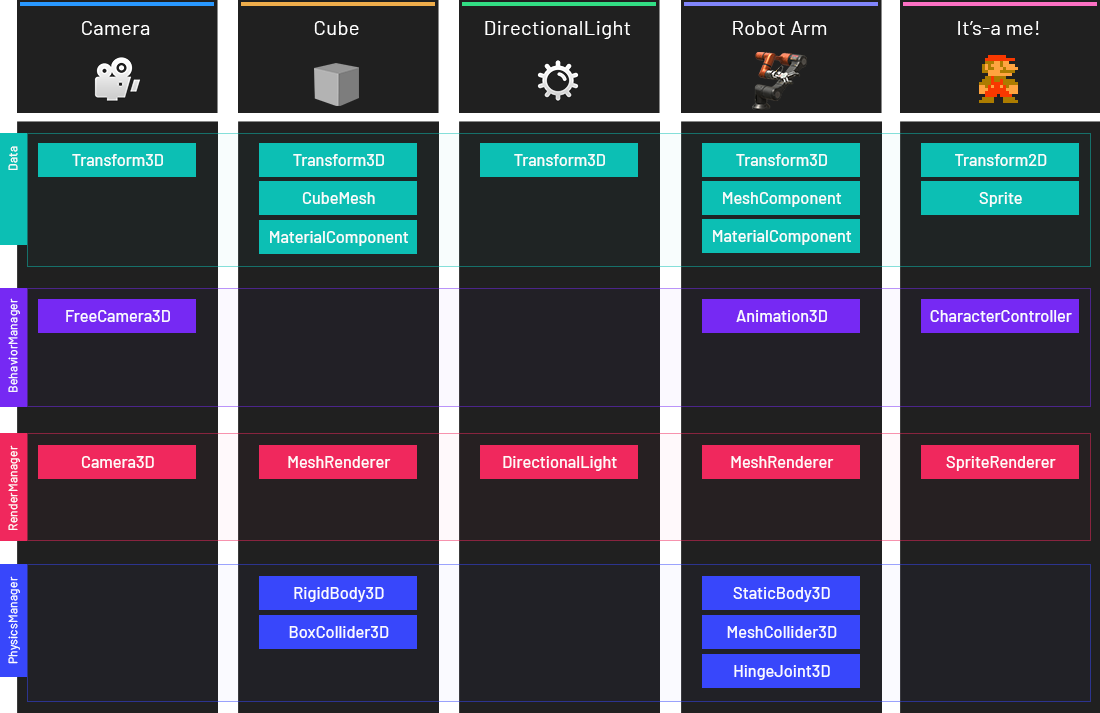
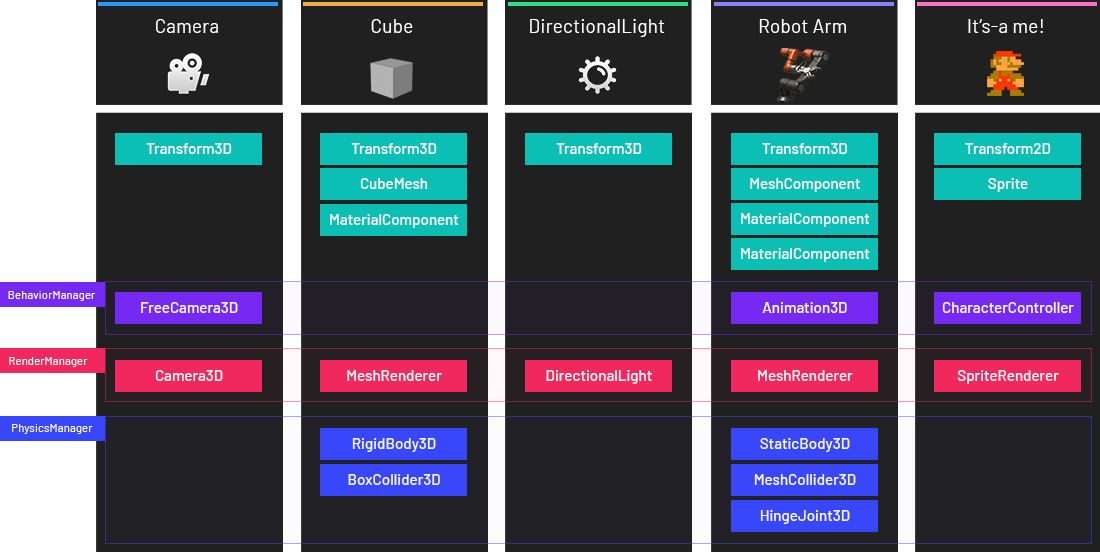
Implements the Entity section, and modify some items in the Comp-Arch section

diff --git a/manual/basics/component_arch/index.md b/manual/basics/component_arch/index.md
@@ -3,24 +3,24 @@
 ![Component Based Architecture](images/component_based_arch.jpg)
 
 
-Evergine is based on entity-oriented programming. An entity is built of components, where each component does just an specific piece of work, and are reusable on other entities.
+Evergine is based on entity-oriented programming. An [**Entity**](entities/index.md) is built of Components, where each component does just an specific piece of work, and are reusable on other entities.
 
 ## Overview
 When you are making applications in Evergine, you need to create objects to represent the entities in your scene, like a car, a player, a sunlight, and so on.
 
 ### Traditional deep class hierarchies
-When you first get started ,you might think the most logical thing is to create a base class called ``AppObject`` or similar, that contains the common code. Then you can create subclasses like ``Vehicle`` with all common functionality between all vehicles, and maybe subclases for specific types (``Car``, ``Motorbike``, ``Train``...).
+When you first get started ,you might think the most logical thing is to create a base class called `AppObject` or similar, that contains the common code. Then you can create subclasses like `Vehicle` with all common functionality between all vehicles, and maybe subclases for specific types (`Car`, `Motorbike`, `Train`...).
 
 For simple scenarios, this works quite well and is quite easy to program. However, has your application get larger and more complex, this architecture begins to cause some problems in practice:
 * Root classes tend to be heavier and is difficult to split the functionality in separate subsystems.
-* Class inheritance may introduce weird scenarios. For instance, if we have created a ``GroundVehicle`` and ``WaterVehicle`` base classes, Which class a ``AmphibianVehicle`` should be derived from? If it is derived from GroundVehicle, all water functionality would be missing, and the same if it is derived from WaterVehicle.
+* Class inheritance may introduce weird scenarios. For instance, if we have created a `GroundVehicle` and `WaterVehicle` base classes, Which class a `AmphibianVehicle` should be derived from? If it is derived from GroundVehicle, all water functionality would be missing, and the same if it is derived from WaterVehicle.
 
 ![Class Inheritance Issue](images/class_inheritance_issue.png)
 
 ### Entities as an aggregation of Components
 
 To solve this issues, we have chosen the **aggregation of components** approach.
-In ths approach, the functionality is separated into individual componets that are mostly independent of one another. The old object hierarchy is replaced by an object (``Entity``) with a collection of independent components (derived from ``Component``).
+In ths approach, the functionality is separated into individual componets that are mostly independent of one another. The old object hierarchy is replaced by an object (`Entity`) with a collection of independent components (derived from `Component`).
 
 Each object now only has the functionality that it needs. Any distinct new functionality is implemented by adding a new component.
 
@@ -33,7 +33,7 @@ To give an Entity the properties it needs to become a Light, a Model, or a Camer
 
 ### SceneManagers and Components
 
-In Evergine, a **Scene** has several subsystems (called **SceneManagers**). Every SceneManager control different aspects of the scene (A few examples: ``RenderManager`` to render and draw the scene, ``BehaviorManager`` to udpate all Behaviors, ``PhysicManager3D`` to perform Physics simulations, and so on)
+In Evergine, a **Scene** has several subsystems (called **SceneManagers**). Every SceneManager control different aspects of the scene (A few examples: `RenderManager` to render and draw the scene, `BehaviorManager` to udpate all Behaviors, `PhysicManager3D` to perform Physics simulations, and so on)
 
 With the Component architecture, every component is responsible to registers itself into the associated SceneManager, allowing in these SceneManagers to have the scope of Components which they are interested in and ignore the rest of them.
 
@@ -42,14 +42,16 @@ With the Component architecture, every component is responsible to registers its
 
 ### Summary Diagram
 
-A **Scene** is composed for several **Entities**. Each one has a collection of Components that give it the required functionality or data. Every component may be registered into the different **SceneManagets** of the Scene.
+A **Scene** is composed for several [**Entities**](entities/index.md). Each one has a collection of Components that give it the required functionality or data. Every component may be registered into the different **SceneManagets** of the Scene.
+
+The following diagram gives an overview concerning this
 
 ![Component Based Architecture](images/component_arch.png)
 
 
 
 ## In this section
-* [Entities](entities.md)
+* [Entities](entities/index.md)
 * [Components](components.md)
 * [Behaviours](behaviours.md)
 * [Drawables](drawables.md)

diff --git a/manual/basics/component_arch/entities/entity_hierarchy.md b/manual/basics/component_arch/entities/entity_hierarchy.md
@@ -1,0 +1,84 @@
+# Entity Hierarchy
+
+You can establish an Entity as a child of another Entity. Using this relationships, it is possible to define an entity tree, where root entities has several children, and those children could have another children too.
+
+## Hierarchy transformations
+
+If an Entity has a ``Transform3D`` component (or ``Transform2D`` for 2D entities), the Child Entity will move, rotate and scale in the same way as its Parent does. You can think of parent / child hierarchy as being like the relationship between your arms and your body,  whenever your body moves, your arms also move along with it. Child objects can also have children. Your hands can be considered as children of your arms, and your fingers are hands children.
+
+![Entity Hierarchy](images/entity_hierarchy.png)
+
+## Hierarchy Properties and Methods
+
+The Entity has the following properties and methods to maintain and inspect the hierarchy:
+
+| Property | Type | Description |
+| --- | --- | --- |
+| **Parent** | `Entity` | Point to the inmediate ascendant of this entity. If the entity has no parents this property is `null` |
+| **ChildEntities** | `IEnumerable<Entity>` | A collection of the inmediate descendants.  |
+
+| Method | Description |
+| --- | --- |
+| `Entity.AddChild(Entity)` | Add a child entity to the current entity. |
+| `Entity.RemoveChild(...)` | Remove a child entity from the current entity. You can specify the entity to remove by giving the following options: <ul><li>The **Entity** instance.</li><li>The child **Name**</li><li>The child **ID**</li></ul>|
+
+## Entity Paths
+
+![Entity Path](images/entity_path.png)
+
+Like in a normal file system, Evergine implements a simple **Entity Path** system to allow identification of entities in the Scene entity tree.
+
+An Entity Path cound be accessed by the `EntityPath` property, and is represented by the sequence of ascendant entity names (including the current entity) separated by the `.` symbol. For example, in the hierarchy described above, the EntityPath of the `Tire2` entity is `Car.Wheel2.Tire2`
+
+### Path representation
+These are the path representation elements:
+
+* Entity separator: `.`
+* Current entity: `[this]`
+* Parent entity: `[parent]`
+
+#### Sample uses
+
+Using the example described above...
+
+* The *relative* path from **Wheel1** to **Tire1** would be: `[parent].Wheel2.Tire2`
+* The *relative* path from **Car** to **Tire1** would be: 
+  * `.Wheel1.Tire1`
+  * Or: `[this].Wheel1.Tire1`, Notice that `[this]` is optional.
+* The *absolute* path of **Wheel1** entity would be exactly the one we've been using until now: `Car.Wheel1`
+* Whe you want to get an entity that doesn't belong to the source's root entity, we just specify the target's absolute path. For example, the relative path from **Tire1** to **Ground** is just: ``Ground``, instead of `[parent].[parent].[parent].Ground` (Incorrect path)
+* To figure out if a specific path is absolute or relative, we just have to read the first element. If it's one of the special elements (`.`, `[this]` pr `[parent]`):
+
+| Path | Type |
+|--- | ---|
+| `[parent].Wheel1 Relative` | Relative |
+| `.Tire2` | Relative |
+| `[this]` | Relative |
+| `Car.Wheel2` | Absolute |
+| `Road` | Absolute |
+
+## Additional methods
+
+In order to make easier the search of entities in code, we’ve added the `Find()` method in the Entity class.
+
+```csharp
+public Entity Find (string path)
+```
+
+This method finds an entity with the desired **relative** path respect the caller entity. If the relative path is not correct, it returns `null`.
+
+We have also added an additional parameter in the **Find** method in **EntityManager** class, allowing to set the source entity and allowing to directly search there.
+
+```csharp
+public Entity Find (string path, Entity sourceEntity = null)
+```
+
+For example (following with the above-mentioned hierarchy), if we want to search the tire1 entity from car we can call one of the next:
+
+```csharp
+Entity tire;
+
+// We can find the entity either of these ways
+tire = car.Find(".Wheel1.Tire1");
+tire = entityManager.Find(".Wheel.Tire1", car);
+```

diff --git a/manual/basics/component_arch/entities/entity_manager.md b/manual/basics/component_arch/entities/entity_manager.md
@@ -1,0 +1,85 @@
+# EntityManager
+
+**EntityManager** is the subsystem in the Scene responsible to manage Entities. It is responsible to maintain the Entity list, and the lifecycle of each one.
+
+Useful ways to interact with EntityManager:
+
+## Add and Remove Entities
+
+The most common way to interact with EntityManager is by adding and removing entities:
+
+```csharp
+EntityManager entityManager = scene.Managers.EntityManager;
+
+// Add an Entity to the Scene..
+entityManager.Add(entity);
+
+// Remove an Entity from the Scene...
+entityManager.Remove(entity);
+```
+
+## Find Entities
+
+You can  find Entities in several ways:
+
+### Find Entity by EntityPath
+
+This is the most common way to find an Entity in the Scene, by using its **EntityPath**:
+
+```csharp
+// Find an entity by its Entity Path...
+var entity = entityManager.Find("Parent.Entity1.ChildEntity");
+```
+
+### Find Entity by ID
+
+You can find an Entity if you specify its ID (Guid)
+
+```csharp
+// Find an entity by its ID...
+Guid id = entity.Id;
+var entity = entityManager.Find(id);
+```
+
+### Find all Entities by Tag
+
+As we mentined before, you can set the tag Entities by setting the `Tag` property. So, you can obtain an Entity collection that match a given Tag:
+
+```csharp
+// Find all entities with a given Tag...
+IEnumerable<Entity> entityCollection = entityManager.FindAllByTag("Tag");
+```
+
+## Entity Tag Collection
+
+A useful feature of EntityManager is the possibility to obtain a live collection of entities that match a specified Tag.
+
+This collection is represented by the `EntityTagCollection` class. The main advantage compared to invoke `FindAllByTag()` method is that in this case the collection is dynamic during the application lifetime. So, you can subscribe to events to get notified when the collection changes:
+
+Here it is a glimpse of how to use it:
+
+```csharp
+// Gets the tag collection...
+var tagCollection = entityManager.GetEntityTagCollection("Tag");
+
+// Iterates over all matching entities...
+foreach (var entity in tagCollection.Entities)
+{
+    System.Console.WriteLine(entity.EntityPath);
+}
+
+// TagCollection Events:
+
+// OnEntityAdded: Event triggered when a new Entity with the given Tag is added to the Scene...
+tagCollection.OnEntityAdded += (sender, entity) => 
+{ 
+    System.Console.WriteLine($"New entity: {entity.EntityPath}"); 
+};
+
+// OnEntityRemoved: Event triggered when an Entity is no longer belong to this collection, 
+// becuase the Entity is removed or its Tag has changed...
+tagCollection.OnEntityRemoved += (sender, entity) =>
+{
+    System.Console.WriteLine($"Entity removed: {entity.EntityPath}");
+};
+```

diff --git a/manual/basics/component_arch/entities/using_entities.md b/manual/basics/component_arch/entities/using_entities.md
@@ -1,0 +1,55 @@
+# Using Entities
+Manipulate Entities is quite straightforward in Evergine.
+
+## From Evergine Studio
+
+### Add Entity in Evergine Studio
+
+In the **Entities Hiearchy** area in an oppened SceneEditor,  just click the ![Add Button](../../../graphics/images/plusIcon.jpg) button. A popup menu will appear:
+
+![Create Entity](images/create_entity.png)
+
+This menu gives you several options to create entities. If you just want to create an Entity with only the Transform3D component, click the `Empty entity`  button.
+
+If an Entity is selected, you can change its properties (Name, Tag, enable) in the Entity Details panel:
+
+![Entity details](images/entity_details.png)
+
+## From Code
+
+### Create a new Entity from code
+Creating and Entity from code is a not a complex task:
+
+```csharp
+Entity entity = new Entity("EntityName");
+
+// Set the Entity Tag...
+entity.Tag = "Tag"
+
+// Add some components...
+entity.AddComponent(new Transform3D());
+    .AddComponent(new TeapotMesh())
+    .AddComponent(new MaterialComponent())
+    .AddComponent(new MeshRenderer())
+
+// Add to the EntityManager
+this.Managers.EntityManager.Add(entity);
+```
+
+### Create a simple Hierarchy from code
+
+```csharp
+// Create the parent entity...
+Entity parentEntity = new Entity()
+    .AddComponent(new Transform3D());
+
+// Create the child entity...
+Entity childEntity = new Entity()
+    .AddComponent(new Transform3D());
+
+// Add the child entity to the parent...
+parentEntity.AddChild(childEntity);
+
+// Add only the parent entity to the EntityManager
+this.Managers.EntityManager.Add(parentEntity);
+```

diff --git a/manual/basics/component_arch/entities/index.md b/manual/basics/component_arch/entities/index.md
@@ -1,0 +1,24 @@
+# Entities
+
+---
+![Entities](images/entities.png)
+
+**Entities** are the fundamental objects in Evergine that represent characters, lights, models and so on. 
+An Entity without any Component has no functionality (nothing will be rendered or interacted).
+
+To give an Entity the properties it needs to become a Light, a Model, or a Camera, you need to add **Components** to it. Depending on what kind of objects do you want to create.
+
+## Basic Properties
+Despite entities has no functionality itself, it provides several ways to identify Entity instances and access to information:
+
+| Property | Type | Description |
+| --- | --- | ---|
+| **ID** | `Guid` | The **unique identifier** of an Entity. Among other objects in Evergine, entities are identified by its ID property. There can only be one Entity with the same ID. <br/>This value is usually autogenerated when a new Entity is created, or when it is deserialized when a Scene is loaded from asset. |
+| **Name** | `String` | The name of the Entity. Several objects can share the same name. |
+| **Tag** |  `String` | A string **used to categorize** entities. It is useful to tag entities with things in common (for instance, tag all vehicle entities with the tag `"Vehicle"`). Evergine provides ways to get [entity collections](entity_manager.md) sharing the same Tag. |
+| **Components** | `IEnumerable<Component>` | A collection of registered components in this Entity |
+
+## In this section
+* [Entity Manager](entity_manager.md)
+* [Entity Hierarchy](entity_hierarchy.md)
+* [Using entities](using_entities.md)
